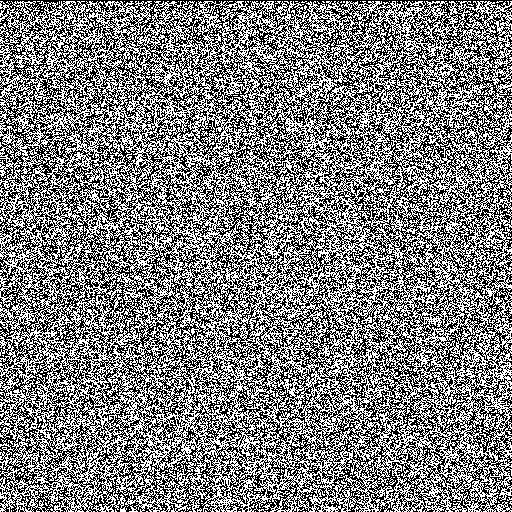
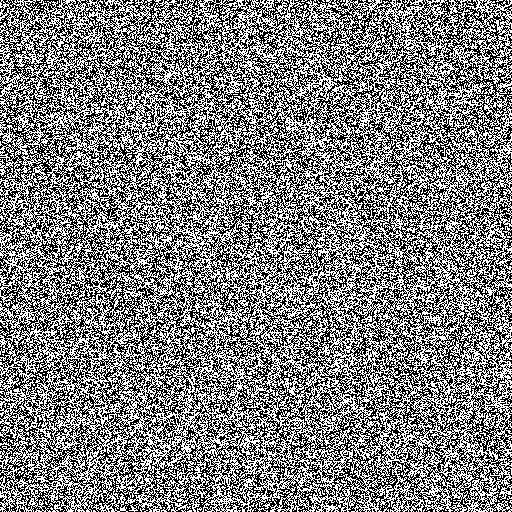
Generating origional black and white image.

diff --git a/app.js b/app.js
@@ -1,11 +1,11 @@
 var Canvas = require('canvas')
-  , canvas = new Canvas(150, 150)
-  , ctx = canvas.getContext('2d')
   , fs = require('fs')
   , sequenceGenerator = require('./random-sequence.js')
 
-var out = fs.createWriteStream(__dirname + '/images/test.png')
-  , imageSize = 256
+var out = fs.createWriteStream(__dirname + '/images/origional.png')
+  , imageSize = 512
+  , canvas = new Canvas(imageSize, imageSize)
+  , ctx = canvas.getContext('2d')
   , canvasData = ctx.getImageData(0, 0, imageSize, imageSize)
   , stream = canvas.pngStream()
   , sequence = sequenceGenerator(1)
@@ -30,7 +30,7 @@ function drawPixel (x, y, color) {
 
 for(var x = 0; x < imageSize; x++) {
   for(var y = 0; y < imageSize; y++) {
-    var color = Math.round(sequence.get() * 255)
+    var color = Math.round(sequence.get()) * 255
     drawPixel(x, y, color)
   }
 }
